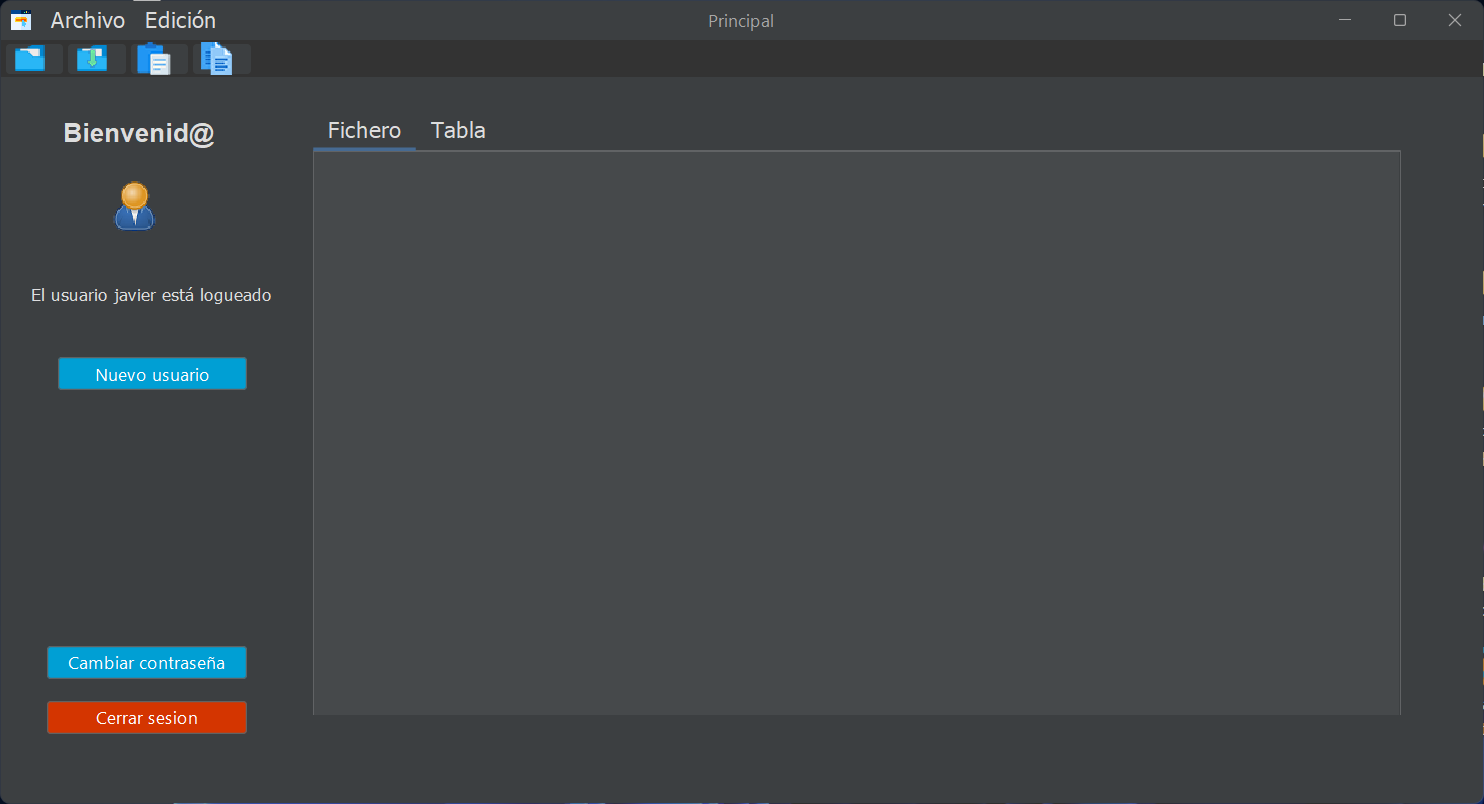
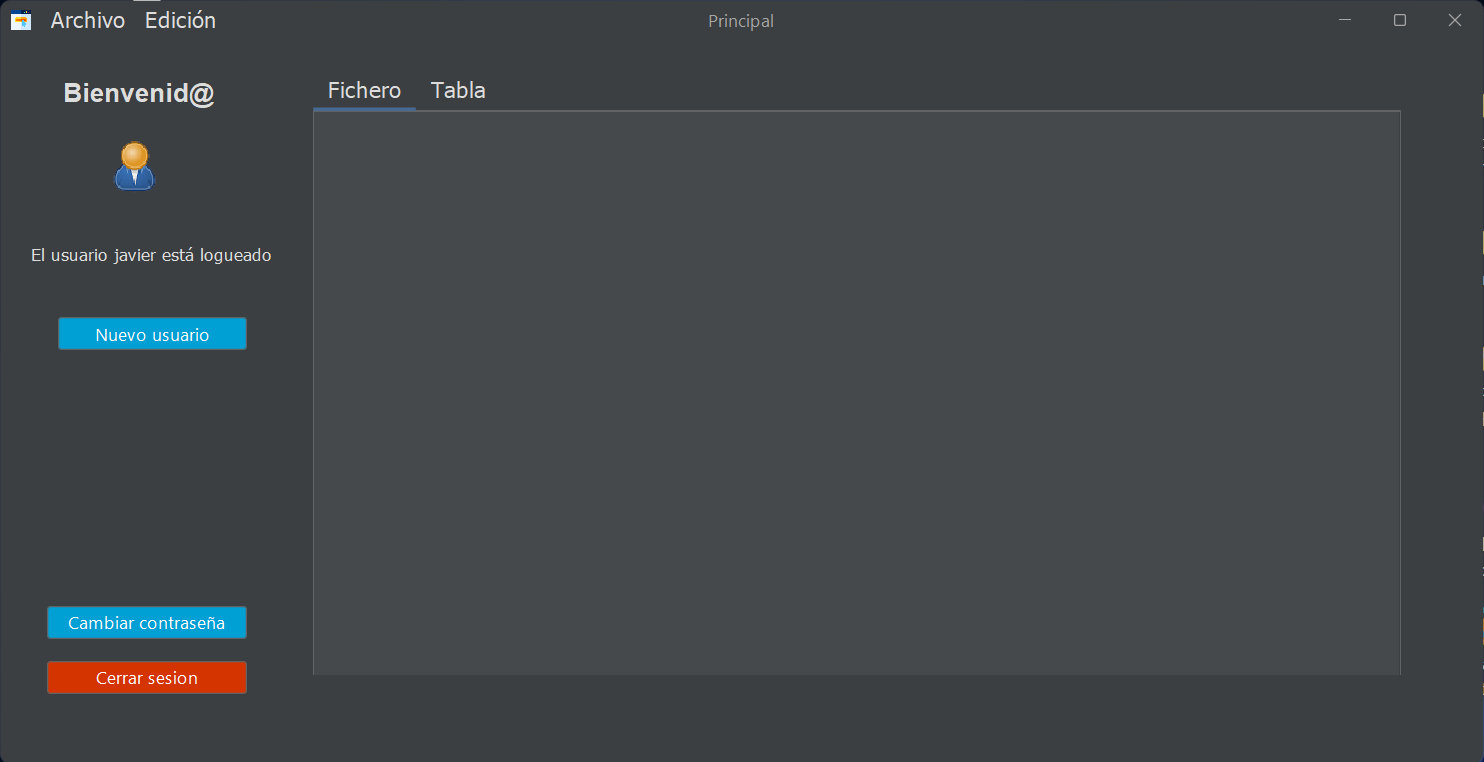
di 25-26

diff --git a/README.md b/README.md
@@ -1,11 +1,15 @@
 # Práctica 3.2 Usabilidad básica (guía de estilo) e instalación
 
-La práctica consiste en crear una **guía de estilo** para tu aplicación y rellenanr un documento adjunto para seguir algunas de las reglas básicas de **usabilidad** vistas. Deberás de personalizar y reorganizar su diseño, la barra superior y mediante paneles las distintas ventanas para darle así un aspecto visual más acorde y actual:
+Esta práctica forma parte del **proyecto evaluable del trimestre**, integrando aspectos de diseño, programación, pruebas y despliegue de aplicaciones de escritorio, por lo que su correcta realización y documentación serán fundamentales para la valoración final del módulo.
+
+Esta práctica tiene como objetivo aplicar los principios fundamentales de **diseño de interfaces gráficas** y **usabilidad** en una aplicación Java desarrollada con Swing. Se deberá diseñar una **guía de estilo** personalizada que defina la paleta de colores, tipografía y elementos visuales coherentes con la identidad de su proyecto, además de implementar mejoras visuales y funcionales que favorezcan la experiencia del usuario.
+Asimismo, se trabajará la configuración de la aplicación mediante ficheros externos, el uso de componentes visuales avanzados como JCalendar o JTabbedPane, la incorporación de temas visuales dinámicos (modo claro/oscuro) y la creación de un ejecutable funcional (.exe) para Windows. 
+
 
 ## Parte 1
 
 -   Se deberá implementar un diseño basado en la **usabilidad** de la aplicación, así como justificar el uso de una *paleta de colores* y una *fuente tipográfica* por defecto específica. 
-	- Rellena el documento de la [guía de estilo](Plantilla_guia_de_estilo.md) adjunto al proyecto.
+	- Rellena el documento de la [guía de estilo](Plantilla_guia_de_estilo.md) adjunto al proyecto. Se considerará como el apartado de **documentación** obligatoria del proyecto.
 	- Crea un **icono** para la aplicación que se muestre en la ventana.
 	
 
@@ -40,7 +44,11 @@ Rediseña la **ventana principal** para que a partir de ahora se le añada conte
 - Agrándala agrégale un gran *JTabbedPane* con al menos dos pestañas en el panel principal:
 	- Una pestaña para mostrar el campo de contenido del fichero de texto. Agrega la opción para poder editar su contenido y también poder guardar los cambios desde el menú archivo.
 	- Añade otra pestaña que muestre un *JTable* que sea el resultado de consultar el contenido de los usuarios dados de alta actualmente en el sistema, mostrando todos sus campos en diferentes columnas.
-- Añade otro nuevo botón que permita **modificar la contraseña** del usuario que esté actualmente logueado. 
+- Añade otro nuevo botón que permita **modificar la contraseña** del usuario que esté actualmente logueado. 	
+
+	![](media/840647d950380324a5c3ae3b8fdee5f3.png)
+
+
 - Agrega un menú superior con las opciones de **archivo** y **edición**:
 	- El menú **archivo** tendrá la opción de abrir y guardar archivos de tipo texto cuyo contenido se cargará en el *JTextArea* central de la ventana principal.
 	- Agrega un **selector de color** a las opciones del menú de edición, cuya función sea cambiar el color de los botones de la interfaz y variar entre modo oscuro y modo claro.
@@ -50,9 +58,10 @@ Rediseña la **ventana principal** para que a partir de ahora se le añada conte
 
 ## Parte 3
 
-- Agrega una **barra superior** con accesos directos y otra inferior para darle funcionalidad y usabilidad.
+- Agrega una **barra superior** con accesos directos para abrir un fichero, guardarlo, copiar y pegar. Agrega otra barra inferior para darle funcionalidad y usabilidad.
 
-- Crea una **prueba automizada** a cualquier parte de la interfaz y documéntala.
+	![](media/840647d950380324a5c3ae3b8fdee5f4.png)
+
 
 - Busca la forma de generar un **ejecutable** para *Windows_64* usando el fichero **jar** generado de tu proyecto usando la aplicación *Launch4J* o mediante el comando `jpackage` de Oracle. 
 
@@ -67,34 +76,35 @@ Rediseña la **ventana principal** para que a partir de ahora se le añada conte
 Puede seguir los pasos desde el siguiente tutorial desde [este enlace.](https://www.raulprietofernandez.net/blog/programacion/como-crear-un-instalador-para-aplicaciones-java-con-install4j)
 
 
-## Mejoras opcionales (evaluable)
+## Parte 4
 
-Agrega otra opción en el menú **edición** para cambiar el tipo de fuente y el tamaño y que afecte a toda la interfaz.
+- Agrega una opción en el menú **edición** para modificar el **tipo de fuente** y el **tamaño** y que afecte a toda la interfaz.
 
-Busca la forma de mejorar el selector de color por defecto utilizado, ya sea en repositorios u otras clases en Internet. Haz lo mismo con el selector de ficheros por defecto.
+- Agrega una opción en el menú **edición** denominada **modificar color** desde donde uses un selector de color para modificar el color de diferentes elementos de la interfaz desde donde también puedas cambiar entre el tema claro y el oscuro para toda la interfaz.
 
-Investiga la forma de integrar el funcionamiento de la Base de Datos de tu aplicación mediante el instalador.
+- Crea una **prueba automizada** a cualquier parte de la interfaz y documéntala.
+
 
 ## Pruebas (testing)
 
-| ID Caso Prueba | Descripción Caso de Prueba                                                                                               | Entrada esperada                                                                          | Salida esperada                                                                                      |
-|----------------|--------------------------------------------------------------------------------------------------------------------------|-------------------------------------------------------------------------------------------|-------------------------------------------------------------------------------------------------------|
-| 01             | Verificación de la paleta de colores y la fuente tipográfica aplicadas en la interfaz                                     | Colores y tipografía predefinidos en la guía de estilo                                     | Colores y fuente aplicados correctamente en todos los componentes                                      |
-| 02             | Sustitución de la barra superior por una barra personalizada                                                             | Uso de `JFrame.setUndecorated(true)`                                                      | La barra superior personalizada aparece correctamente                                                 |
-| 03             | Validaciones de los campos opcionales de la ventana nuevo usuario               | Texto de los diferentes campos     | Si falta texto en alguno de los campos obligatorios no podrá continuar                  | OK/No cumple|
-| 04             | Verificación del aumento de tamaño de la ventana principal con panel central y lateral                                   | Tamaño de ventana agrandado y paneles agregados                                            | Ventana principal correctamente redimensionada con los paneles añadidos                                |
-| 05             | Añadir menú superior con opciones de "Archivo" y "Edición"                                                               | Menú añadido con opciones                                                                  | El menú superior con las opciones se muestra correctamente                                             |
-| 06             | Funcionalidad para abrir y guardar archivos de texto desde el menú "Archivo"                                              | Archivo de texto seleccionado                                                             | Contenido del archivo cargado o guardado en el `JTextArea`                                              |
-| 07             | Verificación de funcionalidad del selector de color en el menú "Edición"                                                  | Selección de un color en el selector                                                      | Color de fondo del `JPanel` y de toda la interfaz cambiado correctamente                                    |
-| 08             | Mover las ventanas desde la barra superior personalizada                                                                 | Intento de mover la ventana desde la barra personalizada                                   | La ventana se puede mover desde la barra superior personalizada y funcionan sus acciones cerrar y mininizar                                       |
-| 09             | Generación de un ejecutable de Windows_64 con `Launch4J` o `jpackage`                                                      | Archivo `jar` del proyecto                                                                 | Ejecutable `.exe` generado correctamente con un icono asociado                                                              |
-| 10             | Se adjunta el documento de plantilla de estilo correctamente cumplimentado                                                                                  |   `Plantilla_guia_de_estilo.md`                         | Se modifica y adjunta la nueva guía de estilo que se corresponde con la aplicación                                      |
-| 11             | Validaciones de los campos opcionales de la ventana nuevo usuario               | Texto de los diferentes campos     | Si falta texto en alguno de los campos obligatorios no podrá continuar                  | OK/No cumple|
-| 12             | Agregar un componente de calendario a través de una librería JAR         | N/D     | Se muestra un calendario al hacer clic en su icono                      | OK/No cumple|
-| 13             | Mejora del selector de color predeterminado                                                                              | Uso de un selector de color personalizado                                                  | El nuevo selector de color reemplaza el predeterminado y ofrece más opciones                           |
-| 14             | Mejora del selector de archivos predeterminado                                                                           | Uso de un selector de archivos personalizado                                               | El nuevo selector de archivos reemplaza el predeterminado y ofrece más funcionalidad                   |
-| 15             | Integración de la Base de Datos en el instalador                                                                         | Configuración del instalador con los parámetros de la base de datos                        | La base de datos se integra y configura automáticamente durante la instalación                         |
-| 16             | Estructura del proyecto                        | N/D   | Se utiliza la división por paquetes MVC; VistaControlador y Modelo para organizar las clases usando el modelo de objetos de forma apropiada | OK/No cumple|
-| 17             | Comprobación fichero jar                        | Proyecto a empaquetar   | Se genera y prueba el fichero jar empaquetado | OK/No cumple|
-| 18             | Verificación de duplicados en la BD                          | Agregar un nuevo usuario   | Se verifica que el nombre de usuario no exista ya en la BD | OK/No cumple|
-| 19             | Leer datos de la BD de un fichero llamado `config.properties`                          | N/D   | Se leen los datos de conexión de la BD de dicho fichero y no del código fuente | OK/No cumple|
+| ID     | Descripción del caso de prueba                                                                                     | Entrada esperada                                                    | Salida esperada                                                                                  |
+| ------ | ------------------------------------------------------------------------------------------------------------------ | ------------------------------------------------------------------- | ------------------------------------------------------------------------------------------------ |
+| 01 | **Entrega y documentación** de la guía de estilo                                                                   | Archivo `Plantilla_guia_de_estilo.md` actualizado                   | Documento completo, coherente con la aplicación final                                            |
+| 02 | Verificación de la **paleta de colores** y **fuente tipográfica** aplicadas en la interfaz según la guía de estilo | Colores y tipografía definidos en `Plantilla_guia_de_estilo.md`     | Todos los componentes muestran correctamente la paleta y fuente seleccionadas                    |
+| 03 | Validación de **campos obligatorios y opcionales** en la ventana “Nuevo Usuario”                                   | Datos incompletos o mal formados en campos de texto                 | El sistema muestra mensajes de error y no permite continuar hasta corregir los datos             |
+| 04 | Integración del **calendario visual (JDateChooser)** para seleccionar fecha de nacimiento                          | Clic en el icono del calendario                                     | El componente muestra un selector de fecha funcional                                             |
+| 05 | Lectura de configuración de BD desde `config.properties`                                                           | Archivo `src/main/resources/config.properties` con datos válidos    | Conexión a BD exitosa sin credenciales codificadas en el código fuente                           |
+| 06 | Verificación del **rediseño de la ventana principal** con panel central y lateral                                  | Ventana ampliada con paneles agregados                              | Estructura de paneles correcta y ajustada al nuevo tamaño                                        |
+| 07 | **Modificar contraseña** del usuario logueado desde la ventana principal                                           | Usuario logueado y nueva contraseña válida                          | Contraseña actualizada correctamente en la base de datos                                         |
+| 08 | Creación de un **JTabbedPane** con pestañas “Contenido” (JTextArea editable) y “Usuarios” (JTable)                 | Interacción con las pestañas                                        | Las pestañas muestran el contenido esperado y permiten edición o visualización según corresponda |
+| 09 | Consulta de **usuarios activos** en la base de datos y visualización en JTable                                     | Usuarios existentes en BD                                           | Los datos se muestran correctamente con todas las columnas                                       |
+| 10 | Funcionalidad del menú **Archivo → Abrir/Guardar** archivos de texto                                               | Selección de un archivo de texto                                    | El contenido se carga en el `JTextArea` o se guarda correctamente                                |
+| 11 | Funcionalidad del menú **Edición → Selector de color**                                                             | Selección de un color                                               | El color de fondo o los botones de la interfaz se actualizan dinámicamente                       |
+| 12 | Cambio de **modo claro/oscuro** en la interfaz usando FlatLaf                                                      | Activación del conmutador (toggle) o menú                           | Se actualiza el tema completo sin necesidad de reiniciar la aplicación                           |
+| 13 | Funcionalidad del menú **Edición → Selector de fuente y tamaño**                                                   | Selección de fuente y tamaño                                        | Todos los componentes actualizan su fuente y tamaño según la selección                           |
+| 14 | **Barra de herramientas superior e inferior** con accesos directos (abrir, guardar, copiar, pegar)                 | Clic en los iconos                                                  | Las acciones se ejecutan igual que desde el menú                                                 |
+| 15 | Generación de un **ejecutable .exe** con Launch4J o `jpackage`                                                     | Archivo `.jar` del proyecto                                         | Ejecutable `.exe` generado con icono y dependencias correctas                                    |
+| 16 | Verificación de la **estructura del proyecto MVC**                                                                 | Organización de clases en paquetes `modelo`, `vista`, `controlador` | Estructura de archivos conforme al patrón MVC                                                    |
+| 16 | **Evitar duplicados** en el registro de nuevos usuarios                                                            | Registro de un nombre de usuario existente                          | Se muestra mensaje de error y no se guarda el duplicado                                          |
+| 17 | **Prueba automatizada** documentada de alguna parte de la interfaz                                                 | Ejecución de prueba (JUnit o similar)                               | Resultado de la prueba documentado (OK o fallo justificado)                                      |
+
